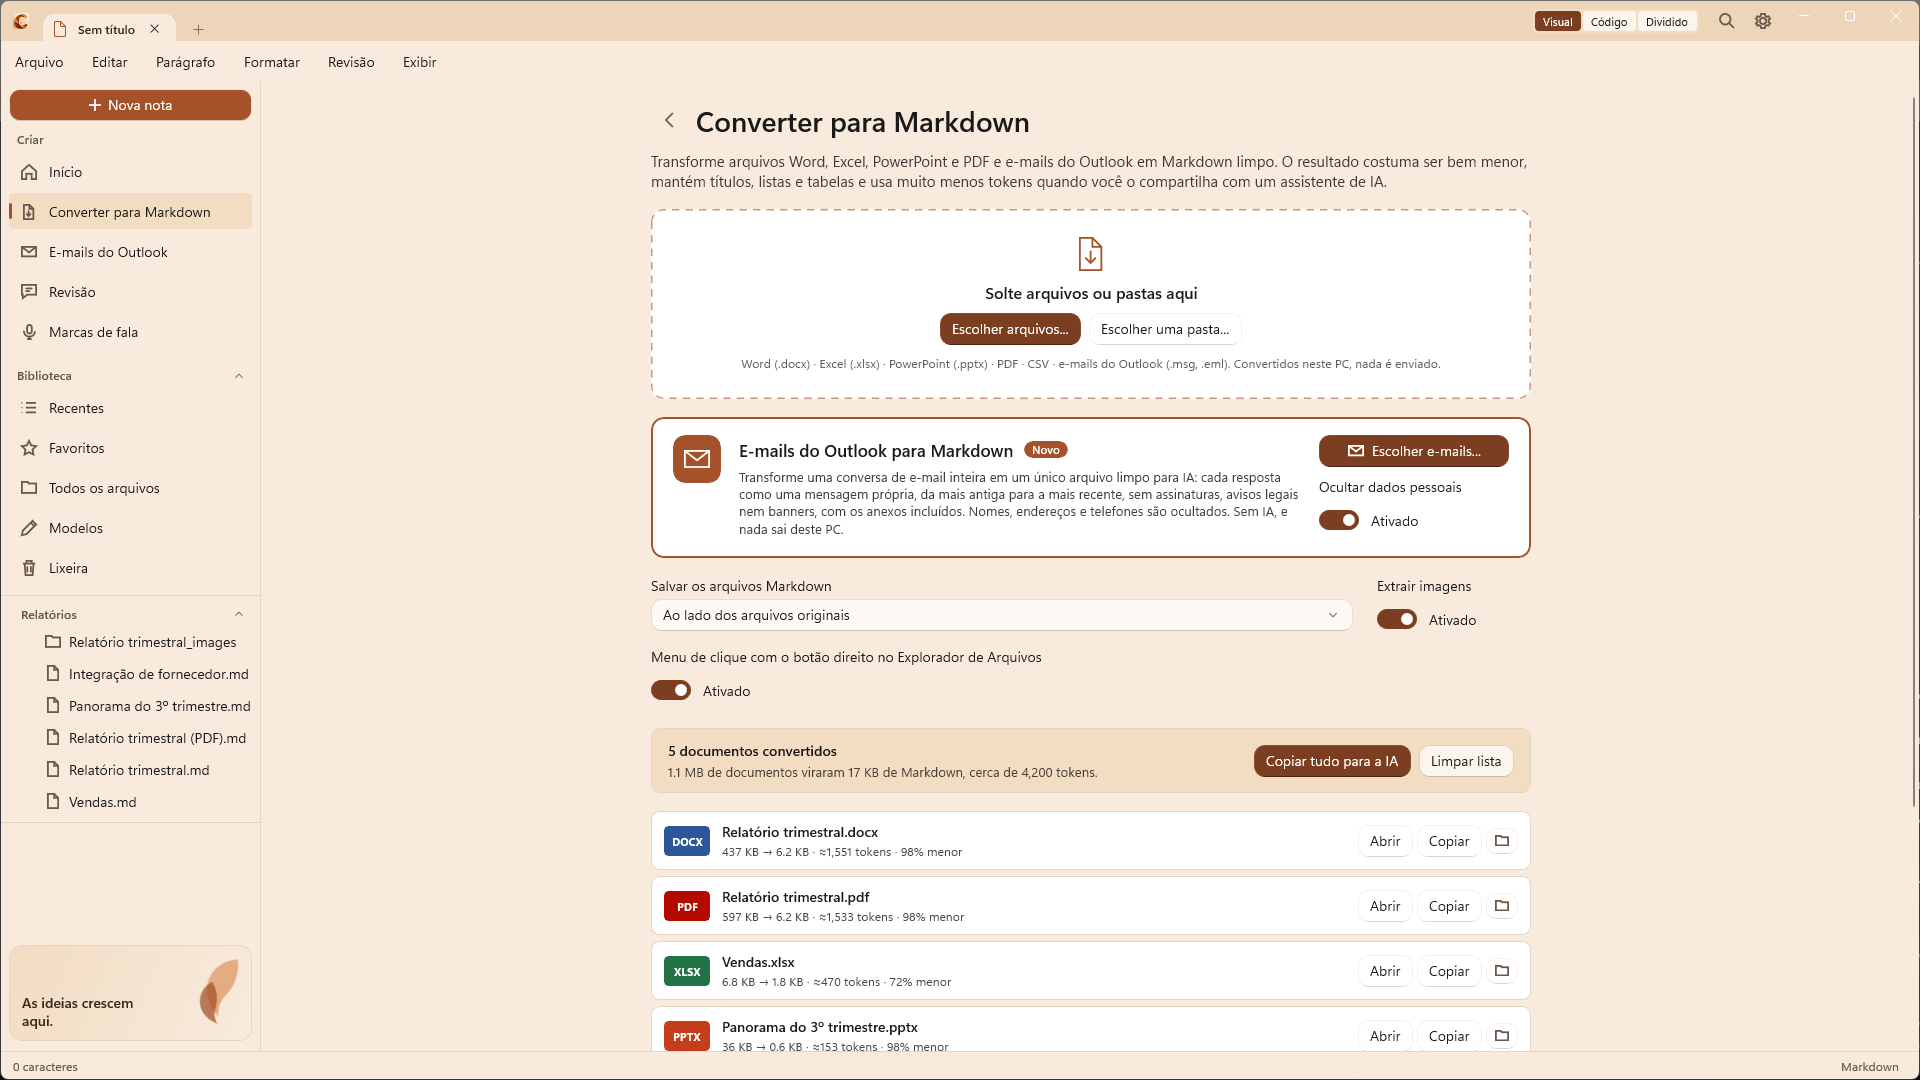
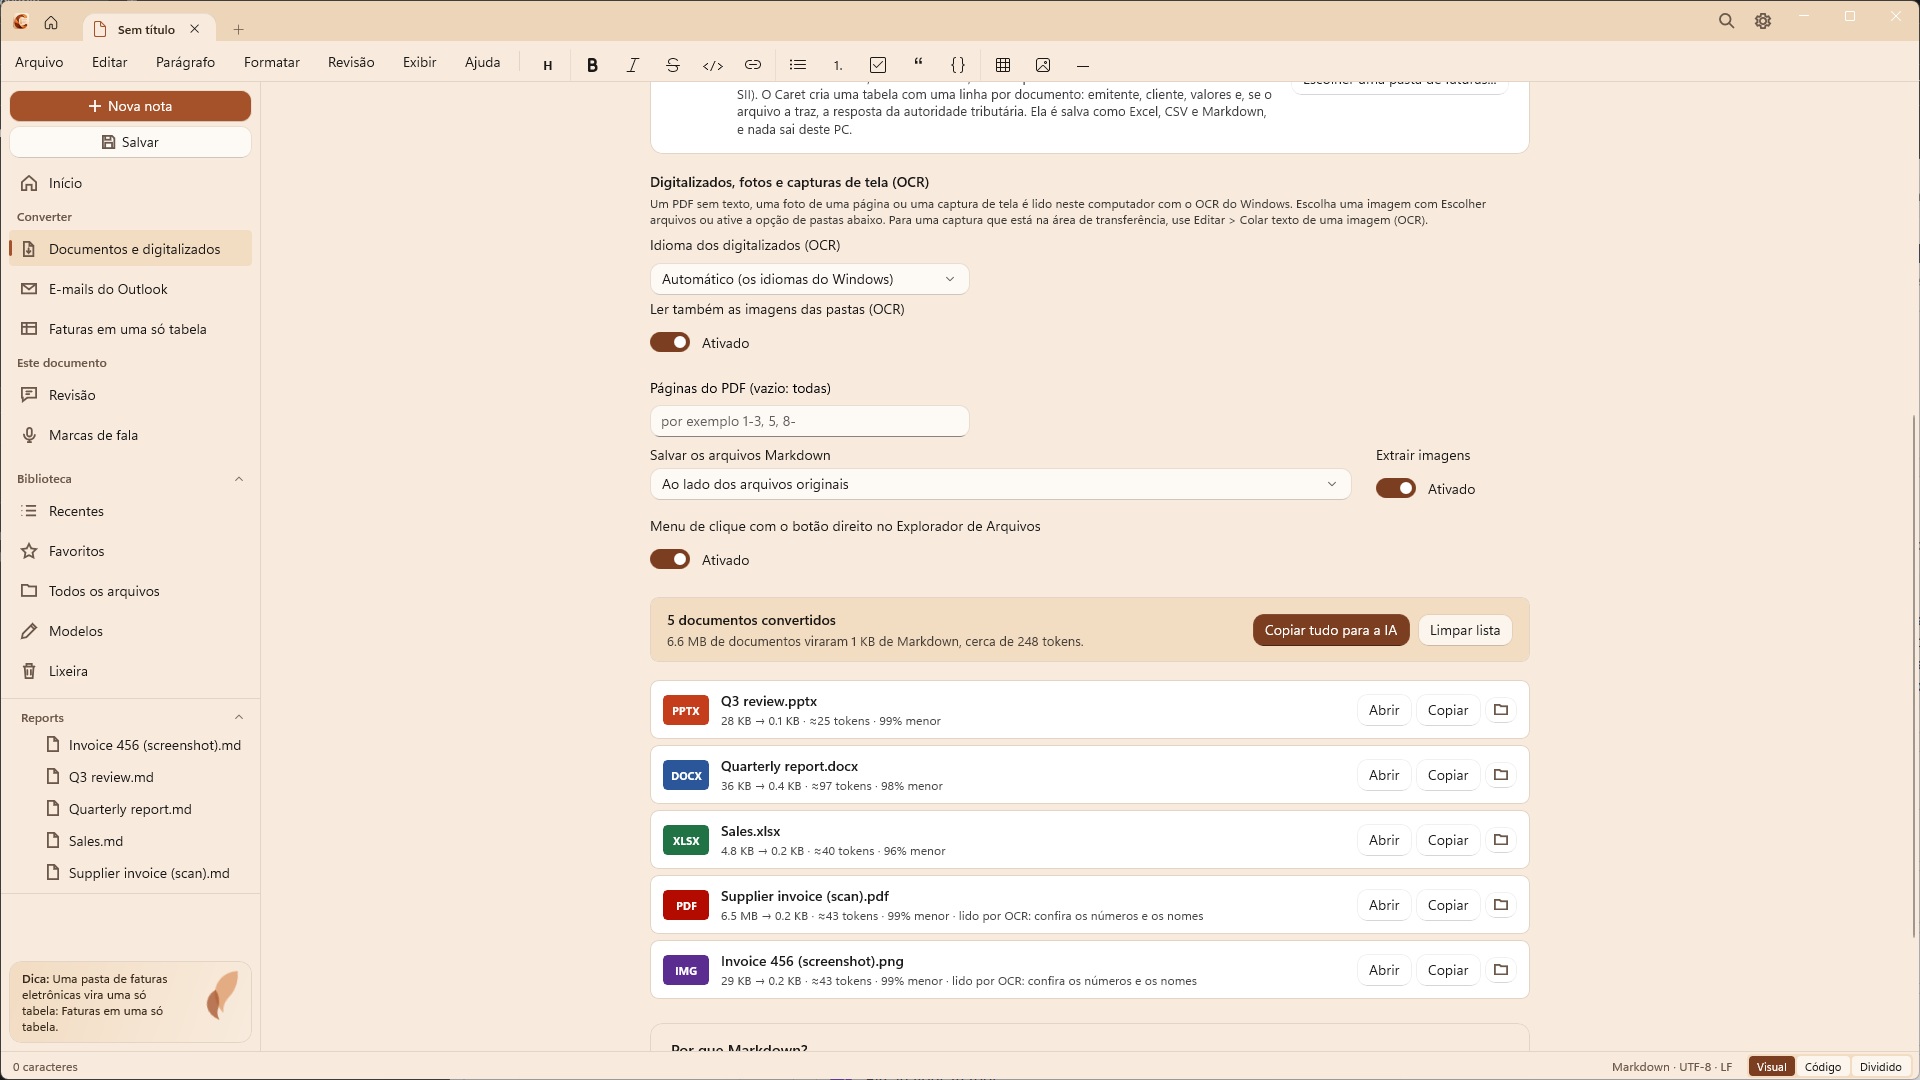
Store screenshots for 2.10: the Convert page with the OCR options, and a screenshot read by Paste text from picture
4-convert.png is retaken (new sidebar, OCR options, a scanned PDF and a picture read by OCR) and 7-ocr-screenshot.png replaces 7-split-dark.png, 1920x1080, five languages, made with fictional documents. Captions 4 and 7 updated in the five listings; the Store notes say what to upload.

diff --git a/docs/store/README.md b/docs/store/README.md
@@ -112,4 +112,4 @@ For updates: bump the version, rebuild, and create a new submission with the new
 
 **Version 2.9.0.0** (the eighth update; submit it only after 2.7.0.0 is live, and note that 2.8 was never released: the changes of two versions are in this one): build the bundle as in step 4 with `/bv 2.9.0.0` and upload `bin\Store\Caret_Store.msixbundle`. In each of the five languages, and also in the plain English, French and Spanish listings that Partner Center shows next to the regional ones, replace from the listing file: the **description** (a sentence more in the XML section, in the conversion section, in the Outlook section and in the Word export section), the **What's new** and **product features** 7, 8, 9, 10 and 18. The short description, the captions, the search terms and the ten screenshots are unchanged.
 
-**Version 2.10.0.0** (the ninth update; 2.9.0.0 is live; there was no 2.9.1 release, its one change is in this one): build the bundle as in step 4 with `/bv 2.10.0.0` and upload `bin\Store\Caret_Store.msixbundle`. In each of the five languages, and also in the plain English, French and Spanish listings that Partner Center shows next to the regional ones, replace only the **What's new** from the listing file. The description, the product features, the short description, the captions, the search terms and the ten screenshots are unchanged.
+**Version 2.10.0.0** (the ninth update; 2.9.0.0 is live; there was no 2.9.1 release, its one change is in this one): build the bundle as in step 4 with `/bv 2.10.0.0` and upload `bin\Store\Caret_Store.msixbundle`. In each of the five languages, and also in the plain English, French and Spanish listings that Partner Center shows next to the regional ones, replace only the **What's new** from the listing file. The description, the product features, the short description, the captions, the search terms and the ten screenshots are unchanged. **Screenshots for 2.10:** `4-convert.png` is retaken (the new sidebar and the OCR options, with a scanned PDF and a picture read by OCR) and `7-ocr-screenshot.png` replaces `7-split-dark.png` (a screenshot and the text that *Paste text from picture* read from it); in Partner Center upload both for each of the five languages and change the captions 4 and 7 from the listing files. The invoice in the picture is in English in every language, because only the English OCR was installed when they were made. The other eight screenshots still show the sidebar of 2.9 (Create / Convert to Markdown).

diff --git a/docs/store/listing.fr.md b/docs/store/listing.fr.md
@@ -97,10 +97,10 @@ Aussi nouveau depuis la 2.7 :
 1. `1-track-changes.png` : Suivi des modifications : chaque ajout en vert et chaque suppression en rouge pendant que vous éditez, avec une liste pour aller à chacune, l'accepter ou la refuser.
 2. `2-teleprompter.png` : Le téléprompteur : un texte qui défile en douceur à votre rythme, une bande de lecture, un compte à rebours jusqu'à la pause et le chronomètre de parole.
 3. `3-speech.png` : Marques de discours : pauses, rythme et emphase dans le texte, et la durée du discours par rapport à votre budget pour chaque section.
-4. `4-convert.png` : Convertissez des fichiers Word, Excel, PowerPoint, PDF et des e-mails Outlook en Markdown, et voyez à quel point ils deviennent plus légers.
+4. `4-convert.png` : Documents et numérisations : Word, Excel, PowerPoint, PDF et images en Markdown, numérisations lues par l’OCR de Windows sur votre PC, et la taille du résultat.
 5. `5-email.png` : Une conversation Outlook en Markdown propre : un message par réponse, données personnelles masquées, à côté de votre rapport, en onglets.
 6. `6-xml-edit.png` : Modifier du XML : des balises colorées et une bande qui dit en langage clair où le fichier se casse ou ce que le schéma n'admet pas.
-7. `7-split-dark.png` : Mode fractionné : la source Markdown à côté d'un aperçu en direct, en thème sombre.
+7. `7-ocr-screenshot.png` : Lire une capture d’écran : Win+Maj+S, puis Coller le texte d’une image. Windows la lit sur votre PC et le texte arrive dans votre note.
 8. `8-settings.png` : À votre image : cinq jeux de couleurs, la couleur d'accentuation de Windows, Mica et des couleurs par zone.
 9. `9-xml.png` : Une facture électronique comme un document lisible : émetteur, client, lignes, taxes et totaux, avec le XML à côté.
 10. `10-word.png` : Export vers Word : choisissez une apparence, la page, un en-tête et un pied de page, ou écrivez sur votre propre modèle Word.

diff --git a/docs/store/listing.pt.md b/docs/store/listing.pt.md
@@ -105,10 +105,10 @@ Também novo desde a 2.7:
 1. `1-track-changes.png`: Controle de alterações: cada adição em verde e cada exclusão em vermelho enquanto você edita, com uma lista para ir a cada alteração, aceitar ou rejeitar.
 2. `2-teleprompter.png`: O teleprompter: texto que rola com suavidade no seu ritmo, uma faixa de foco, uma contagem regressiva até a pausa e o relógio de apresentação.
 3. `3-speech.png`: Marcas de fala: pausas, ritmo e ênfase no texto, e o tempo da apresentação em relação ao seu orçamento de cada seção.
-4. `4-convert.png`: Converta arquivos Word, Excel, PowerPoint e PDF e e-mails do Outlook em Markdown e veja o quanto eles ficam menores.
+4. `4-convert.png`: Documentos e digitalizados: Word, Excel, PowerPoint, PDF e imagens para Markdown, digitalizados lidos com o OCR do Windows no seu computador, e quanto o resultado fica menor.
 5. `5-email.png`: Uma conversa do Outlook em Markdown limpo: uma mensagem por resposta, dados pessoais mascarados, ao lado do seu relatório em guias.
 6. `6-xml-edit.png`: Editar XML: marcações coloridas e uma faixa que diz em palavras claras onde o arquivo quebra ou o que o esquema não permite.
-7. `7-split-dark.png`: Modo Dividido: o código Markdown ao lado de uma visualização ao vivo, no modo escuro.
+7. `7-ocr-screenshot.png`: Ler uma captura de tela: Win+Shift+S e depois Colar texto de uma imagem. O Windows lê no seu computador e o texto vai para a sua nota.
 8. `8-settings.png`: Deixe do seu jeito: cinco esquemas de cores, a cor de destaque do Windows, Mica e cores para áreas individuais.
 9. `9-xml.png`: Uma fatura eletrônica como documento legível: emitente, cliente, linhas, impostos e totais, com o XML ao lado.
 10. `10-word.png`: Exportar para o Word: escolha uma aparência, a página, um cabeçalho e um rodapé, ou escreva sobre seu próprio modelo do Word.

diff --git a/docs/store/listing.es.md b/docs/store/listing.es.md
@@ -103,10 +103,10 @@ También nuevo desde la 2.7:
 1. `1-track-changes.png`: Control de cambios: cada adición en verde y cada eliminación en rojo mientras editas, con una lista para ir a cada cambio, aceptarlo o rechazarlo.
 2. `2-teleprompter.png`: El teleprompter: texto que se mueve con suavidad a tu ritmo, una banda de enfoque, una cuenta regresiva hasta la pausa y el reloj de discurso.
 3. `3-speech.png`: Marcas de discurso: pausas, ritmo y énfasis en el texto, y el tiempo del discurso frente a tu presupuesto de cada sección.
-4. `4-convert.png`: Convierte archivos de Word, Excel, PowerPoint y PDF y correos de Outlook en Markdown, y mira cuánto más livianos quedan.
+4. `4-convert.png`: Documentos y escaneos: Word, Excel, PowerPoint, PDF e imágenes a Markdown, escaneos leídos con el OCR de Windows en tu equipo, y cuánto se reduce el resultado.
 5. `5-email.png`: Una conversación de Outlook en Markdown limpio: un mensaje por respuesta, datos personales enmascarados, junto a tu informe en pestañas.
 6. `6-xml-edit.png`: Edita XML: etiquetas coloreadas y una franja que dice con palabras claras dónde se rompe el archivo o qué no admite el esquema.
-7. `7-split-dark.png`: Vista Dividida: el código Markdown junto a una vista previa en vivo, en modo oscuro.
+7. `7-ocr-screenshot.png`: Leer una captura de pantalla: Win+Mayús+S y luego Pegar texto de una imagen. Windows la lee en tu equipo y el texto entra en tu nota.
 8. `8-settings.png`: A tu manera: cinco combinaciones de colores, el color de énfasis de Windows, Mica y colores para zonas sueltas.
 9. `9-xml.png`: Una factura electrónica como documento legible: emisor, cliente, líneas, impuestos y totales, con el XML al lado.
 10. `10-word.png`: Exportar a Word: elige un aspecto, la página, un encabezado y un pie de página, o escribe sobre tu propia plantilla de Word.

diff --git a/docs/store/listing.pl.md b/docs/store/listing.pl.md
@@ -104,10 +104,10 @@ Także nowe od wersji 2.7:
 1. `1-track-changes.png`: Śledzenie zmian: każde dodanie na zielono i usunięcie na czerwono podczas edycji, z listą, z której przejdziesz do zmiany, zaakceptujesz ją lub odrzucisz.
 2. `2-teleprompter.png`: Teleprompter: tekst przesuwa się płynnie w Twoim tempie, z paskiem czytania, odliczaniem do pauzy i zegarem przemówienia.
 3. `3-speech.png`: Znaczniki przemówienia: pauzy, tempo i nacisk w tekście oraz czas przemówienia w porównaniu z budżetem każdej sekcji.
-4. `4-convert.png`: Konwertuj pliki Word, Excel, PowerPoint i PDF oraz e-maile z Outlooka na Markdown i zobacz, o ile stają się mniejsze.
+4. `4-convert.png`: Dokumenty i skany: Word, Excel, PowerPoint, PDF i obrazy do Markdown, skany odczytane przez OCR systemu Windows na Twoim komputerze i o ile mniejszy jest wynik.
 5. `5-email.png`: Wątek z Outlooka jako czysty Markdown: jedna wiadomość na odpowiedź, dane osobowe zamaskowane, obok raportu w kartach.
 6. `6-xml-edit.png`: Edycja XML: kolorowane znaczniki i pasek, który prostymi słowami mówi, gdzie plik się psuje albo czego schemat nie dopuszcza.
-7. `7-split-dark.png`: Widok Podział: źródło Markdown obok podglądu na żywo, w trybie ciemnym.
+7. `7-ocr-screenshot.png`: Odczyt zrzutu ekranu: Win+Shift+S, potem Wklej tekst z obrazu. Windows odczytuje go na Twoim komputerze, a tekst trafia do notatki.
 8. `8-settings.png`: Dopasuj go do siebie: pięć schematów kolorów, kolor akcentu systemu Windows, Mica i kolory dla pojedynczych obszarów.
 9. `9-xml.png`: Faktura elektroniczna jako czytelny dokument: wystawca, nabywca, pozycje, podatki i sumy, a obok XML.
 10. `10-word.png`: Eksport do Worda: wybierz wygląd, stronę, nagłówek i stopkę albo pisz na własnym szablonie Worda.

diff --git a/docs/store/listing.en.md b/docs/store/listing.en.md
@@ -104,10 +104,10 @@ Also new since 2.7:
 1. `1-track-changes.png`: Track changes: every addition in green and deletion in red as you edit, with a list to jump to, accept or reject each change.
 2. `2-teleprompter.png`: The teleprompter: text that moves smoothly at your pace, a focus band, a pause countdown and the speaking clock.
 3. `3-speech.png`: Speech marks: pauses, pace and emphasis in the text, and the time of the talk against your budget for each section.
-4. `4-convert.png`: Convert Word, Excel, PowerPoint and PDF files and Outlook emails to Markdown, and see how much smaller they get.
+4. `4-convert.png`: Documents and scans: Word, Excel, PowerPoint, PDF and pictures to Markdown, scans read with the OCR of Windows on your PC, and how much smaller the result is.
 5. `5-email.png`: An Outlook thread as clean Markdown: one message per reply, personal data masked, next to your report in tabs.
 6. `6-xml-edit.png`: Edit XML: coloured tags, and a strip that says in plain words where the file breaks or what the schema does not allow.
-7. `7-split-dark.png`: Split view: Markdown source beside a live preview, in dark mode.
+7. `7-ocr-screenshot.png`: Read a screenshot: Win+Shift+S, then Paste text from picture. Windows reads it on your PC and the text lands in your note.
 8. `8-settings.png`: Make it yours: five color schemes, your Windows accent color, Mica, and colors for single areas.
 9. `9-xml.png`: An electronic invoice as a document you can read: issuer, customer, lines, taxes and totals, with the XML beside it.
 10. `10-word.png`: Export to Word: choose a look, the page, a header and a footer, or write on your own Word template.
